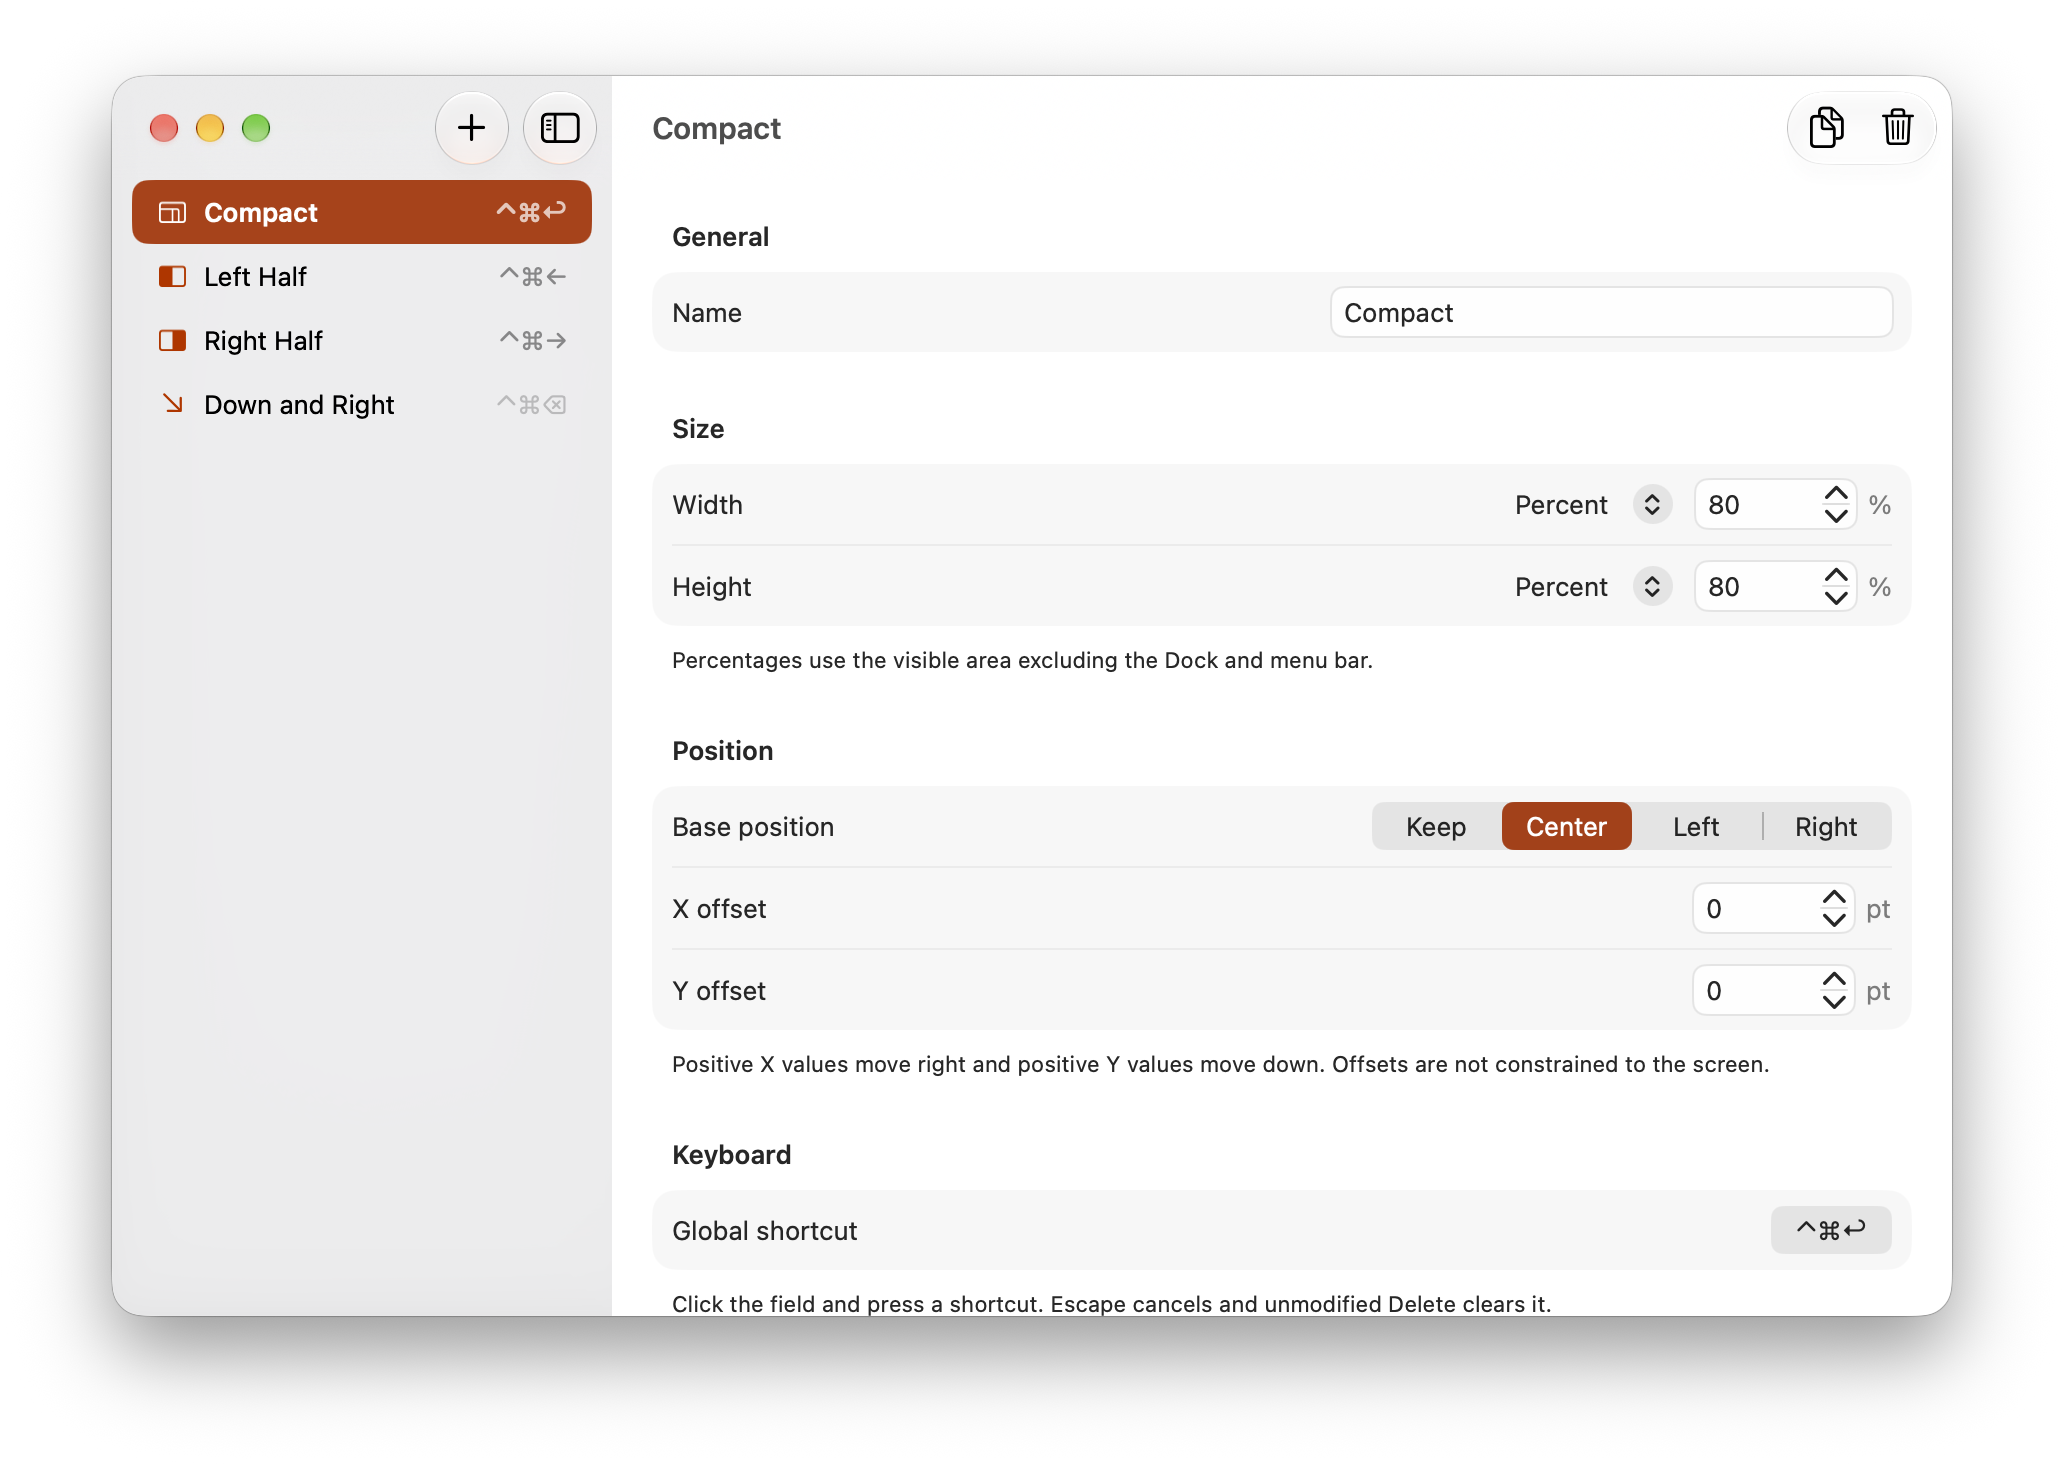
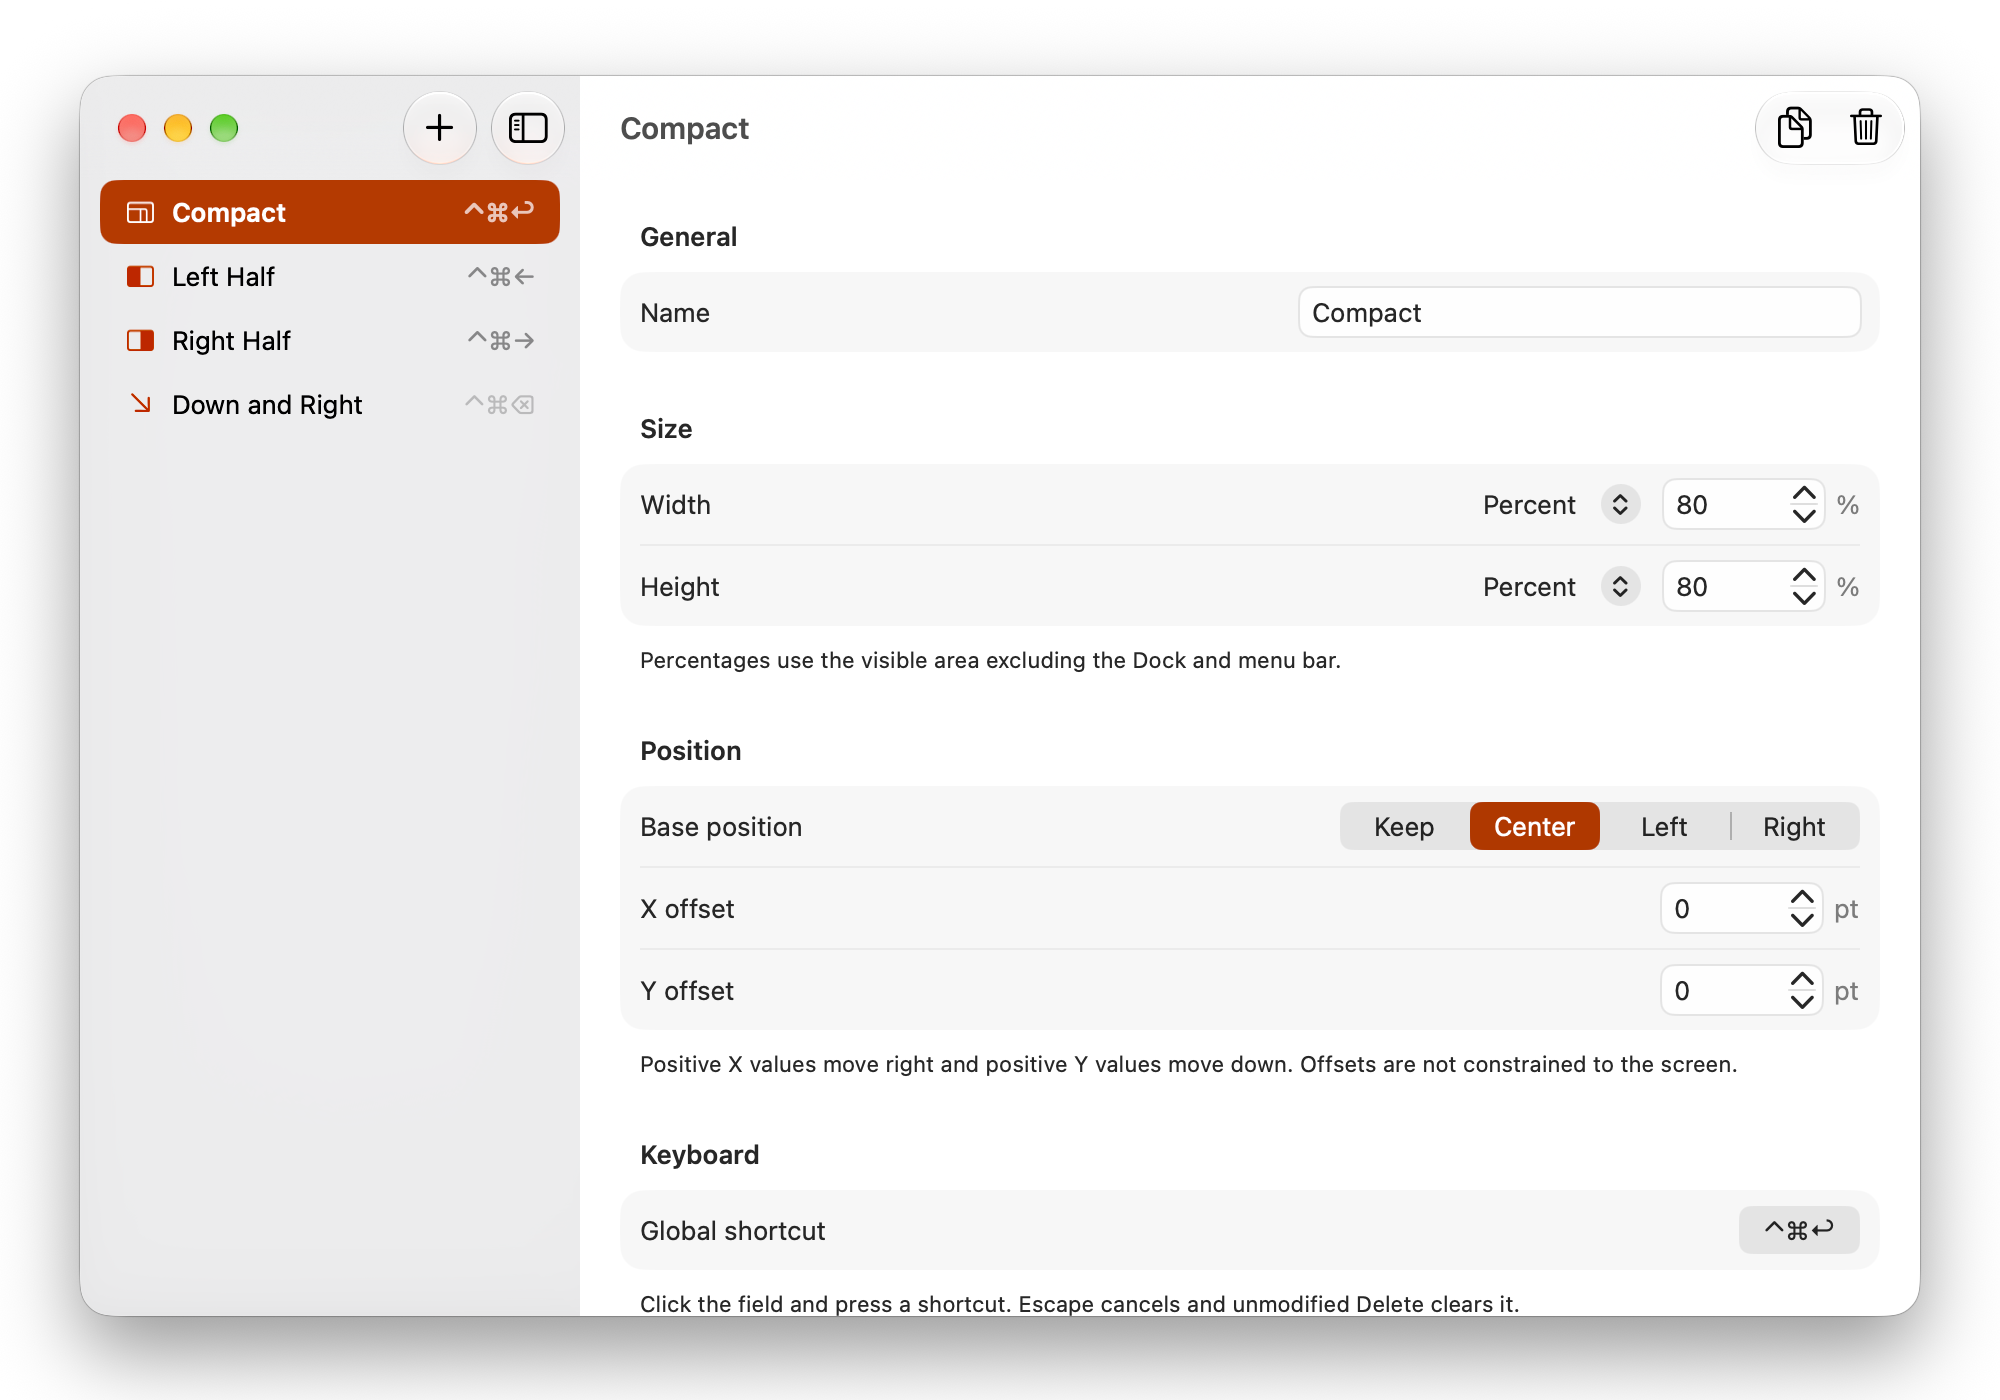
docs: remove screenshot centering and refresh main window image

diff --git a/docs/images/README.md b/docs/images/README.md
@@ -17,4 +17,4 @@ This directory contains the screenshots displayed in the public project README.
 - Keep the application language consistent.
 - Crop away unrelated desktop content.
 - Prefer PNG for screenshots and optimize files without reducing readability.
-- Stack the screenshots in separate, centered single-column tables to preserve the README's borders and centered captions: show the main window at full width and keep the menu bar below it limited to 400 pixels wide.
+- Stack the screenshots in separate single-column tables to preserve the README's borders and centered captions: show the main window at full width and keep the menu bar below it limited to 400 pixels wide.

diff --git a/README.md b/README.md
@@ -31,8 +31,6 @@ Arson keeps window management simple: focus a window, trigger a preset, and cont
 
 ### Screenshots
 
-<div align="center">
-
 | Main Window |
 | :---------: |
 | <img src="docs/images/main-window.png" alt="Arson main window showing the default presets and the Compact preset editor" width="100%" /> |
@@ -40,8 +38,6 @@ Arson keeps window management simple: focus a window, trigger a preset, and cont
 | Menu Bar |
 | :------: |
 | <img src="docs/images/menu-bar.png" alt="Arson menu bar menu showing presets, shortcuts, and app actions" width="400" /> |
-
-</div>
 
 ## Installation
 
